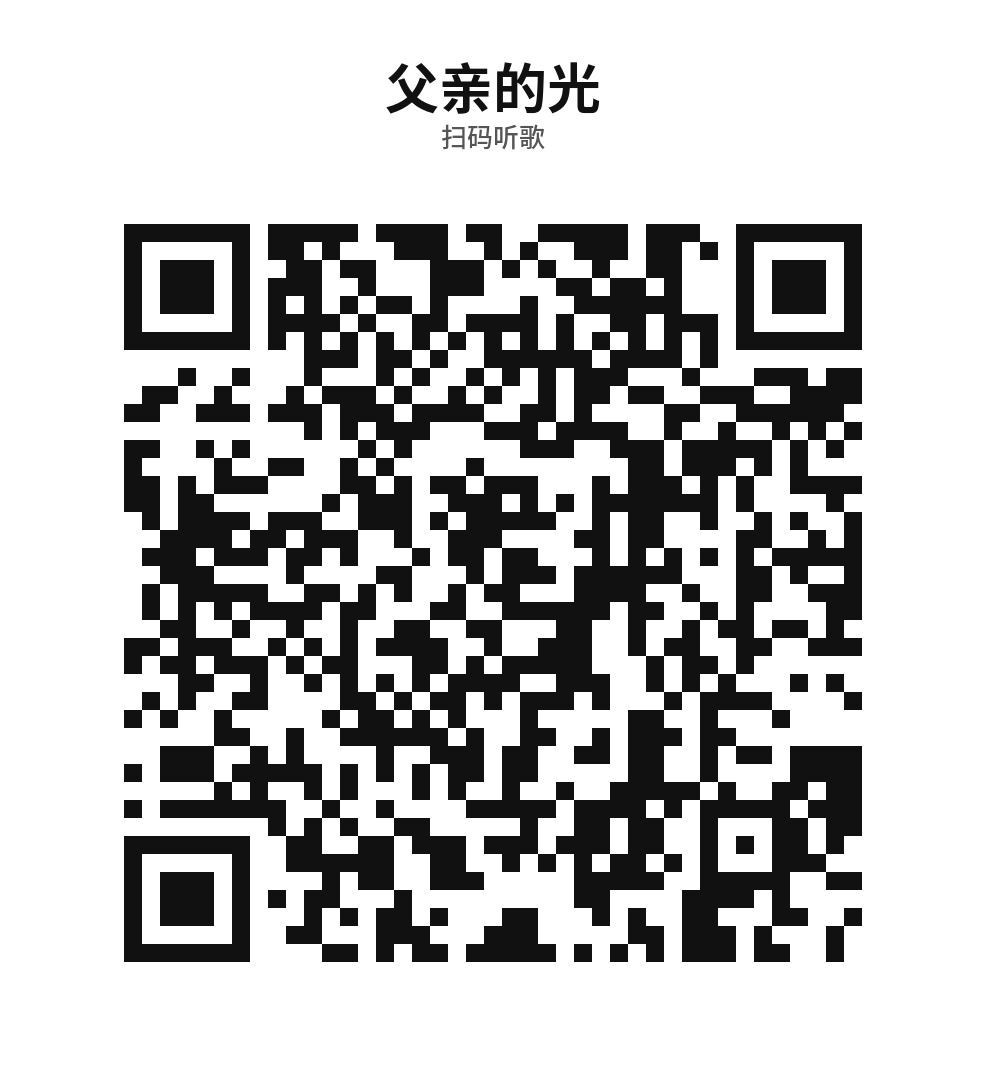
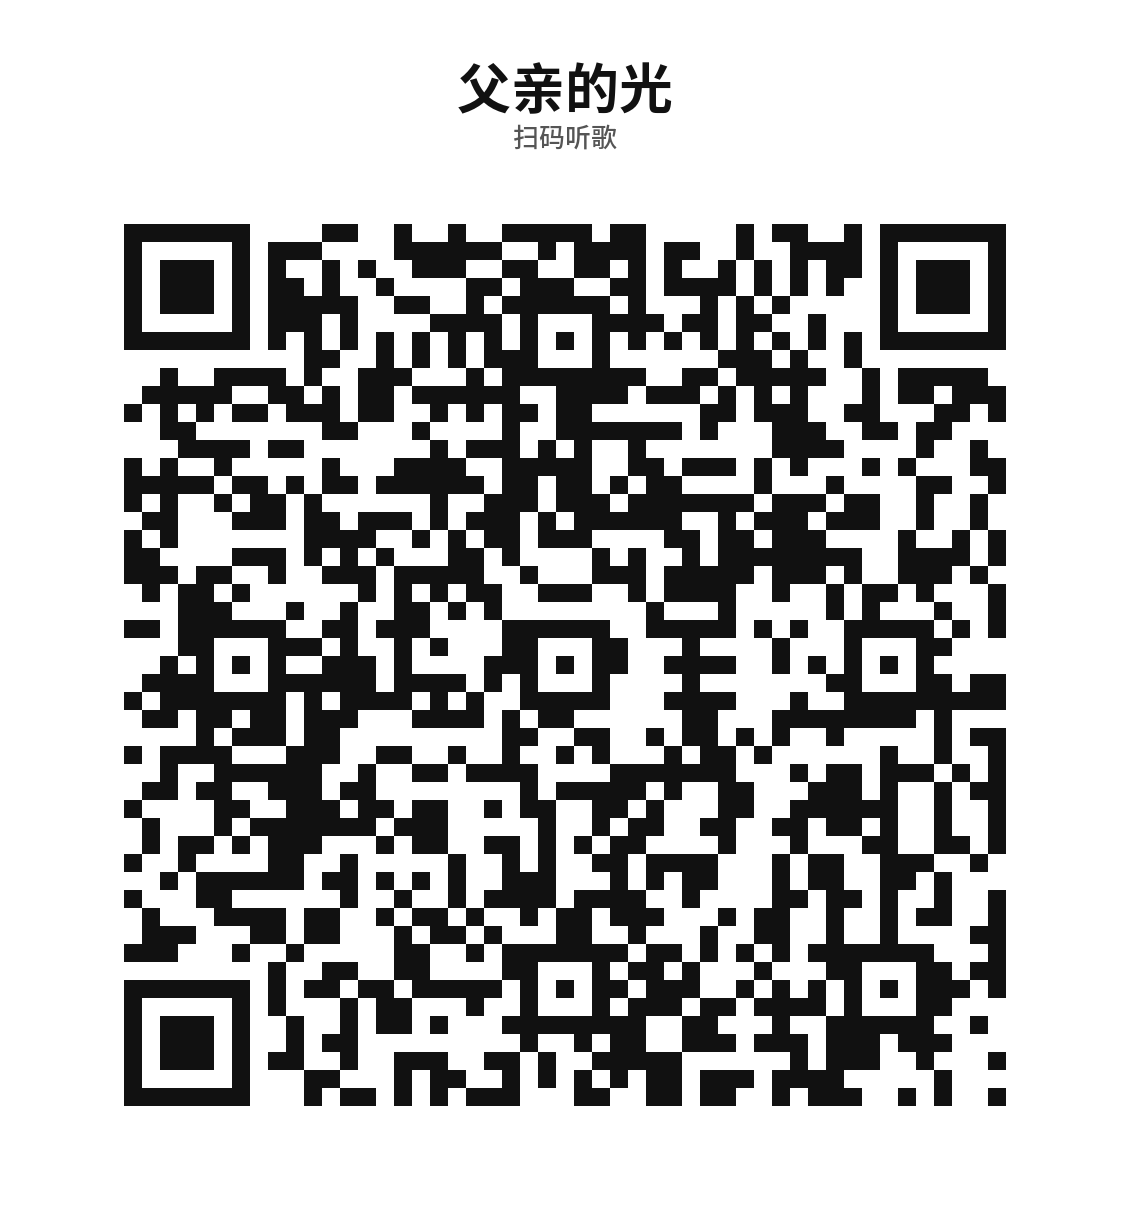
Add lyrics and stable public QR target

diff --git a/public_music/father-light/index.html b/public_music/father-light/index.html
@@ -11,6 +11,7 @@
       --muted: rgba(255, 249, 239, 0.78);
       --line: rgba(255, 255, 255, 0.2);
       --accent: #ffdca8;
+      --panel: rgba(12, 10, 8, 0.54);
     }
 
     * {
@@ -20,14 +21,11 @@
     body {
       min-height: 100vh;
       margin: 0;
-      display: grid;
-      align-items: end;
-      padding: 28px 22px;
+      padding: 28px 22px 40px;
       font-family: -apple-system, BlinkMacSystemFont, "Segoe UI", "Microsoft YaHei", sans-serif;
       color: var(--ink);
-      background: #14120f url("https://cdn.jsdelivr.net/gh/mengxuewang11-lab/xiao-hua@4c5b45143fa43e9087ecfd3cb1fd4a7ce1a3c2b8/public_music/father-light/background.png") center / cover no-repeat fixed;
+      background: #14120f url("./background.png") center / cover no-repeat fixed;
       position: relative;
-      overflow: hidden;
     }
 
     body::before {
@@ -42,12 +40,18 @@
 
     main {
       width: min(100%, 520px);
+      min-height: calc(100vh - 68px);
       margin: 0 auto;
-      padding: 28px 0 18px;
-      border: 1px solid var(--line);
-      border-width: 1px 0 0;
+      display: flex;
+      flex-direction: column;
+      justify-content: flex-end;
       position: relative;
       z-index: 1;
+    }
+
+    .player {
+      padding: 24px 0 20px;
+      border-top: 1px solid var(--line);
     }
 
     h1 {
@@ -84,14 +88,86 @@
     .tagline {
       max-width: 24em;
     }
+
+    .lyrics {
+      max-height: 44vh;
+      margin-top: 18px;
+      padding: 20px 18px;
+      overflow: auto;
+      border: 1px solid var(--line);
+      border-radius: 8px;
+      background: var(--panel);
+      backdrop-filter: blur(10px);
+      box-shadow: 0 18px 46px rgba(0, 0, 0, 0.22);
+      white-space: pre-line;
+      font-size: 17px;
+      line-height: 2;
+      color: rgba(255, 249, 239, 0.92);
+    }
+
+    .lyrics-title {
+      margin: 0 0 10px;
+      font-size: 14px;
+      font-weight: 700;
+      color: var(--accent);
+    }
   </style>
 </head>
 <body>
   <main>
-    <h1>父亲的光</h1>
-    <p class="tagline">愿这束温暖的光，陪你慢慢听完这一首歌。</p>
-    <audio controls preload="metadata" src="https://cdn.jsdelivr.net/gh/mengxuewang11-lab/xiao-hua@1061a61f17fb6ea0f1b9bef22be62c3959db675c/public_music/father-light/father-light.mp3"></audio>
-    <a href="https://cdn.jsdelivr.net/gh/mengxuewang11-lab/xiao-hua@1061a61f17fb6ea0f1b9bef22be62c3959db675c/public_music/father-light/father-light.mp3" download>下载音频</a>
+    <section class="player">
+      <h1>父亲的光</h1>
+      <p class="tagline">愿这束温暖的光，陪你慢慢听完这一首歌。</p>
+      <audio controls preload="metadata" src="./father-light.mp3"></audio>
+      <a href="./father-light.mp3" download>下载音频</a>
+      <section class="lyrics" aria-label="歌词">
+        <div class="lyrics-title">歌词</div>
+他很少说起辛苦
+只把沉默留在肩膀
+风吹过旧时的路
+他走得比谁都稳当
+
+时间把话说得很轻
+却在皱纹里留下回响
+那些没说出口的期望
+都藏在目光的远方
+
+父亲的光 不喧哗地亮
+像一盏灯 在夜里守望
+不说永远 却一直在场
+陪我走过 每段成长
+
+父亲的光 不张扬的暖
+像一双手 托住重量
+岁月很长 他却很短
+留给我的 是方向
+
+他习惯把累藏起来
+只把安心留给身旁
+我慢慢学会理解
+那些沉默里的回答
+
+有些爱不用表达
+却早已写进日常
+在我回头的每一刻
+他都站在来路上
+
+父亲的光 不喧哗地亮
+像一盏灯 在夜里守望
+不说永远 却一直在场
+陪我走过 每段成长
+
+父亲的光 不张扬的暖
+像一双手 托住重量
+岁月很长 他却很短
+留给我的 是方向
+
+如果时间会慢一点
+我想多看他一眼
+那沉默的身影里
+藏着整个世界的温暖
+      </section>
+    </section>
   </main>
 </body>
 </html>
